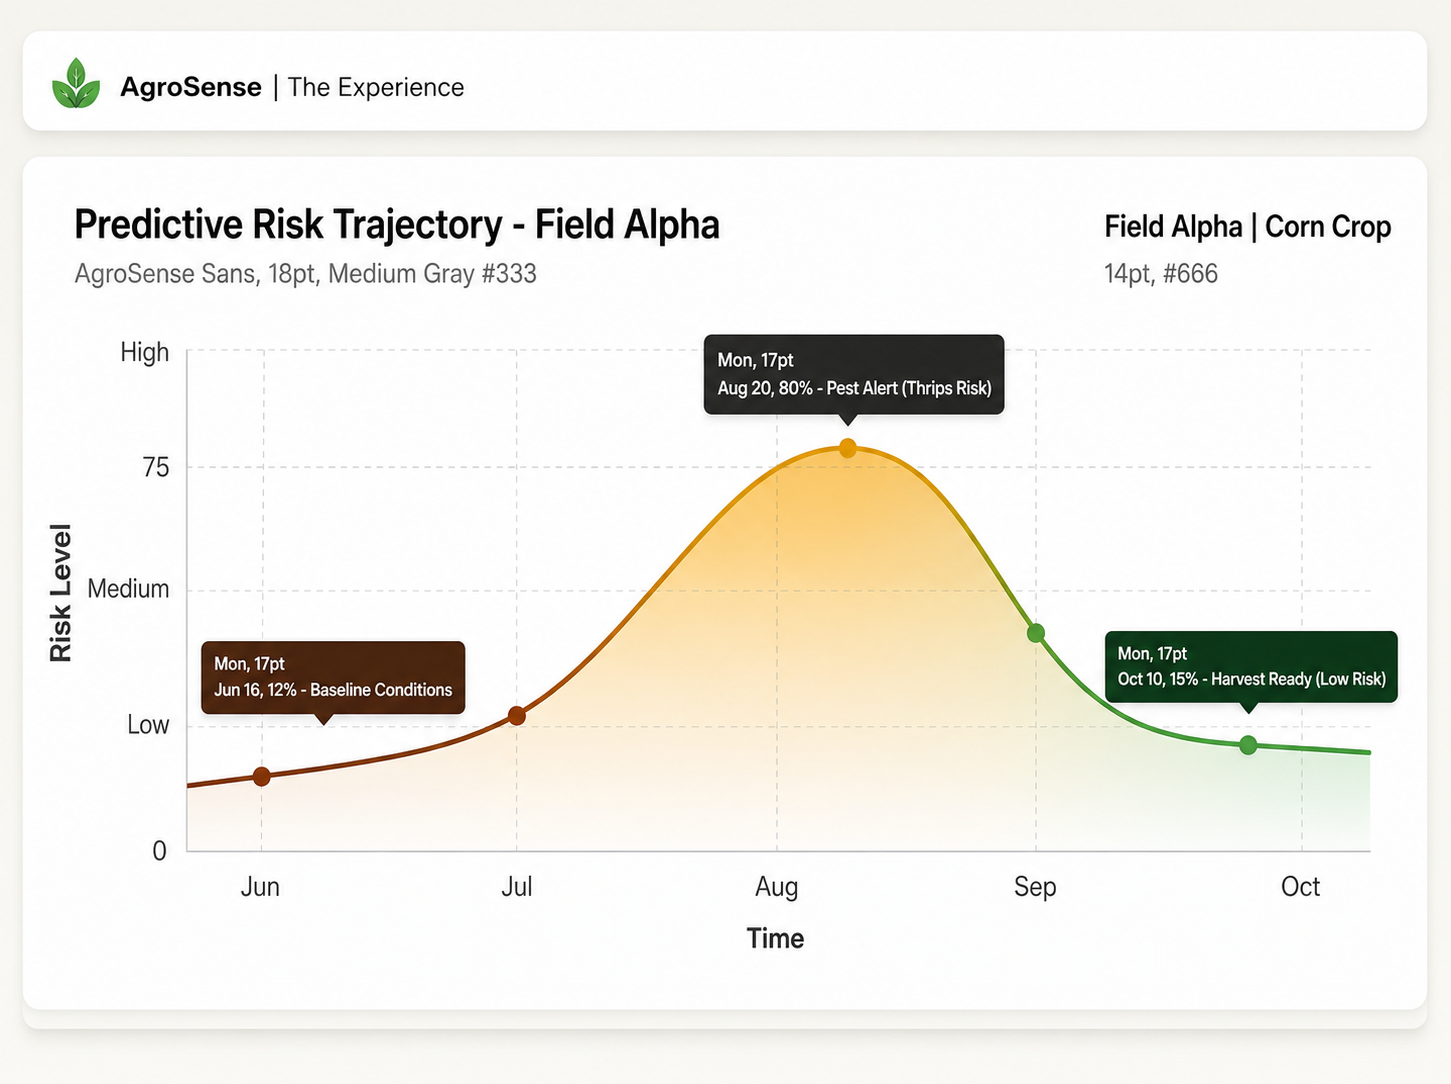
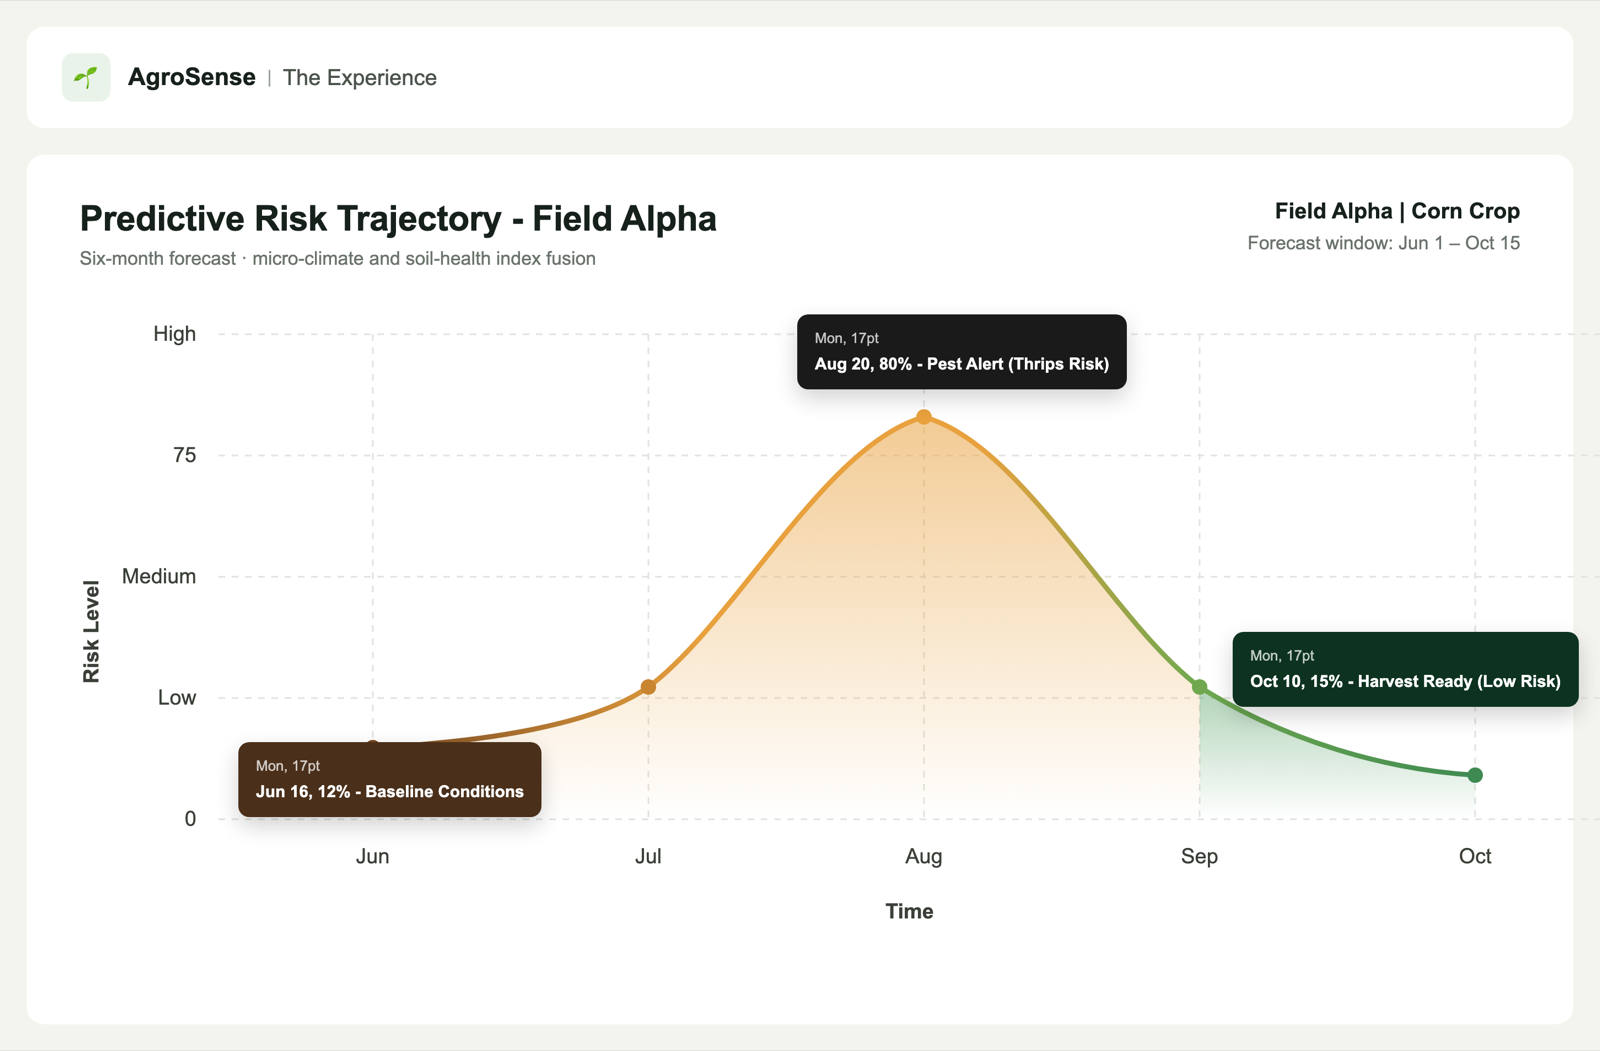
fix: improve mobile responsiveness

diff --git a/src/components/layout/Navbar.jsx b/src/components/layout/Navbar.jsx
@@ -1,5 +1,5 @@
-import { useState } from "react";
-import { Link } from "react-router-dom";
+import { useEffect, useState } from "react";
+import { Link, useLocation } from "react-router-dom";
 import Icon from "../shared/Icon";
 import useActiveSection from "../../hooks/useActiveSection";
 
@@ -16,7 +16,14 @@ const SECTION_IDS = LINKS.map((link) => link.id);
 export default function Navbar() {
   const activeId = useActiveSection(SECTION_IDS);
   const [hoveredId, setHoveredId] = useState(null);
+  const [mobileOpen, setMobileOpen] = useState(false);
   const highlightedId = hoveredId ?? activeId;
+  const { pathname, hash } = useLocation();
+
+  // Close the mobile menu whenever navigation happens.
+  useEffect(() => {
+    setMobileOpen(false);
+  }, [pathname, hash]);
 
   return (
     <nav className="fixed top-0 w-full z-50 bg-surface/80 dark:bg-primary/80 backdrop-blur-xl shadow-sm dark:shadow-none transition-all duration-300 ease-in-out border-b-0">
@@ -27,7 +34,7 @@ export default function Navbar() {
         >
           AgroSense
         </Link>
-        <div className="hidden md:flex items-center space-x-8">
+        <div className="hidden lg:flex items-center space-x-6 xl:space-x-8">
           {LINKS.map((link) => (
             <Link
               key={link.href}
@@ -36,25 +43,60 @@ export default function Navbar() {
               onMouseLeave={() => setHoveredId(null)}
               className={
                 highlightedId === link.id
-                  ? "text-secondary font-bold border-b-2 border-secondary pb-1 text-body-md font-body-md"
-                  : "text-on-surface-variant border-b-2 border-transparent pb-1 transition-colors text-body-md font-body-md"
+                  ? "text-secondary font-bold border-b-2 border-secondary pb-1 text-body-md font-body-md whitespace-nowrap"
+                  : "text-on-surface-variant border-b-2 border-transparent pb-1 transition-colors text-body-md font-body-md whitespace-nowrap"
               }
             >
               {link.label}
             </Link>
           ))}
         </div>
-        <div className="hidden md:block">
+        <div className="hidden lg:block">
           <Link
             to="/discuss"
-            className="bg-primary text-white px-6 py-2 rounded-lg font-body-md hover:bg-on-primary-fixed-variant transition-colors hover:opacity-80 shadow-sm"
+            className="bg-primary text-white px-6 py-2 rounded-lg font-body-md hover:bg-on-primary-fixed-variant transition-colors hover:opacity-80 shadow-sm whitespace-nowrap"
           >
             Let's Discuss
           </Link>
         </div>
-        <button className="md:hidden text-primary">
-          <Icon name="menu" fill />
+        <button
+          type="button"
+          className="lg:hidden text-primary dark:text-primary-fixed"
+          aria-label={mobileOpen ? "Close menu" : "Open menu"}
+          aria-expanded={mobileOpen}
+          onClick={() => setMobileOpen((open) => !open)}
+        >
+          <Icon name={mobileOpen ? "close" : "menu"} fill />
         </button>
+      </div>
+
+      {/* Mobile / tablet menu */}
+      <div
+        className={`lg:hidden overflow-hidden transition-[max-height,opacity] duration-300 ease-in-out bg-surface dark:bg-primary border-t border-outline-variant/20 ${
+          mobileOpen ? "max-h-[28rem] opacity-100" : "max-h-0 opacity-0"
+        }`}
+      >
+        <div className="flex flex-col px-margin-mobile md:px-margin-desktop py-6 gap-1">
+          {LINKS.map((link) => (
+            <Link
+              key={link.href}
+              to={link.href}
+              className={
+                activeId === link.id
+                  ? "text-secondary font-bold py-3 text-body-md font-body-md border-b border-outline-variant/20"
+                  : "text-on-surface-variant py-3 text-body-md font-body-md border-b border-outline-variant/20"
+              }
+            >
+              {link.label}
+            </Link>
+          ))}
+          <Link
+            to="/discuss"
+            className="bg-primary text-white px-6 py-3 rounded-lg font-body-md hover:opacity-80 transition-opacity shadow-sm text-center mt-4"
+          >
+            Let's Discuss
+          </Link>
+        </div>
       </div>
     </nav>
   );

diff --git a/src/components/home/Solution.jsx b/src/components/home/Solution.jsx
@@ -14,11 +14,11 @@ export default function Solution() {
     >
       <div className="grid grid-cols-1 md:grid-cols-12 gap-gutter items-center reveal">
         {/* Narrative Canvas */}
-        <div className="md:col-span-5 md:col-start-1 z-10 space-y-8 relative">
+        <div className="md:col-span-5 md:col-start-1 min-w-0 z-10 space-y-8 relative">
           <span className="inline-block px-3 py-1 bg-fresh-leaf text-white font-label-caps text-label-caps rounded-full uppercase tracking-widest w-fit">
             The Solution
           </span>
-          <h2 className="font-display-lg-mobile text-display-lg-mobile md:font-display-lg md:text-display-lg text-primary tracking-tight">
+          <h2 className="font-display-lg-mobile text-display-lg-mobile xl:font-display-lg xl:text-display-lg text-primary tracking-tight break-words">
             One Connected <br />
             <span className="text-surface-tint">Intelligence Experience.</span>
           </h2>
@@ -32,7 +32,7 @@ export default function Solution() {
         {/* High-Impact Visual Canvas with UI Overlays */}
         <div className="md:col-span-7 md:col-start-6 mt-12 md:mt-0 relative reveal reveal-delay-1">
           <div
-            className="rounded-xl overflow-hidden aspect-[4/3] relative ambient-shadow border border-primary/10"
+            className="rounded-xl overflow-hidden aspect-[4/3] relative ambient-shadow border border-primary/10 bg-cover bg-center bg-no-repeat"
             style={{ backgroundImage: `url('${MAIN_IMAGE}')` }}
           >
             <div className="absolute inset-0 bg-gradient-to-tr from-primary/30 to-transparent" />
@@ -81,7 +81,7 @@ export default function Solution() {
             </p>
           </div>
           <div
-            className="md:w-1/2 relative bg-surface min-h-[250px]"
+            className="md:w-1/2 relative bg-surface bg-contain md:bg-cover bg-center bg-no-repeat min-h-[250px]"
             style={{ backgroundImage: `url('${FARMERS_IMAGE}')` }}
           >
             <div className="absolute bottom-4 right-4 bg-surface-container-lowest/80 backdrop-blur border border-white/20 p-3 rounded-lg shadow-sm">
@@ -132,7 +132,7 @@ export default function Solution() {
         </div>
 
         {/* Bento Item 3: The Platform Engine (Full Width) */}
-        <div className="md:col-span-12 bg-primary rounded-2xl p-8 md:p-12 ambient-shadow flex flex-col md:flex-row items-center justify-between relative overflow-hidden">
+        <div className="md:col-span-12 bg-primary rounded-2xl p-8 md:p-12 ambient-shadow flex flex-col md:flex-row items-stretch md:items-center justify-between relative overflow-hidden">
           <div
             className="absolute inset-0 opacity-10"
             style={{
@@ -151,17 +151,17 @@ export default function Solution() {
             </p>
           </div>
           <div className="relative z-10 md:w-5/12 mt-8 md:mt-0">
-            <div className="relative w-full aspect-[4/3]">
+            <div className="relative w-full">
               <div className="absolute inset-4 bg-surface/10 rounded-xl border border-white/20 backdrop-blur-sm transform rotate-3" />
               <div className="absolute inset-2 bg-surface/20 rounded-xl border border-white/30 backdrop-blur-md transform -rotate-2" />
-              <div className="absolute inset-0 bg-surface-container-lowest rounded-xl border border-white/10 shadow-2xl p-6 flex flex-col text-primary">
+              <div className="relative bg-surface-container-lowest rounded-xl border border-white/10 shadow-2xl p-6 flex flex-col text-primary">
                 <div className="flex justify-between items-center mb-4 border-b border-surface-variant pb-2">
                   <span className="font-label-caps text-label-caps tracking-wide">
                     Data Pipeline Status
                   </span>
                   <Icon name="check_circle" className="text-fresh-leaf text-sm" />
                 </div>
-                <div className="space-y-3 flex-grow">
+                <div className="space-y-3">
                   <div className="flex items-center justify-between text-sm">
                     <span className="text-on-surface-variant font-data-viz">
                       Sentinel-2 Ingestion

diff --git a/src/components/home/Impact.jsx b/src/components/home/Impact.jsx
@@ -75,7 +75,7 @@ export default function Impact() {
                 src={AFTER_IMAGE}
               />
               <div className="absolute inset-0 bg-white/10" />
-              <div className="absolute top-4 right-4 bg-primary/90 backdrop-blur text-white px-3 py-1 rounded font-label-caps text-label-caps tracking-widest">
+              <div className="absolute bottom-4 right-4 bg-primary/90 backdrop-blur text-white px-3 py-1 rounded font-label-caps text-label-caps tracking-widest">
                 AGROSENSE INTELLIGENCE
               </div>
               <div className="absolute top-2 left-2 bg-surface rounded-lg shadow-sm px-2.5 py-1.5 w-48">
@@ -140,9 +140,9 @@ export default function Impact() {
 
       {/* Business Value Impact Areas */}
       <div className="bg-sage-bg py-16 px-8 rounded-2xl border border-primary/5 reveal reveal-delay-2 mb-section-gap">
-        <div className="grid md:grid-cols-12 gap-gutter">
-          <div className="md:col-span-4 flex flex-col justify-center">
-            <h3 className="font-headline-lg-mobile text-headline-lg-mobile md:font-headline-lg md:text-headline-lg text-primary mb-6">
+        <div className="grid lg:grid-cols-12 gap-gutter">
+          <div className="lg:col-span-4 min-w-0 flex flex-col justify-center mb-8 lg:mb-0">
+            <h3 className="font-headline-lg-mobile text-headline-lg-mobile xl:font-headline-lg xl:text-headline-lg text-primary mb-6 break-words">
               Quantifiable Business Value
             </h3>
             <p className="font-body-lg text-body-lg text-on-surface-variant mb-8">
@@ -150,7 +150,7 @@ export default function Impact() {
               environmental variables into manageable metrics.
             </p>
           </div>
-          <div className="md:col-span-8 grid sm:grid-cols-2 gap-6">
+          <div className="lg:col-span-8 grid sm:grid-cols-2 gap-6">
             <div className="bg-surface p-8 rounded-xl border border-primary/10 hover:shadow-xl hover:shadow-tertiary-container/10 transition-all duration-300">
               <Icon name="trending_down" className="text-4xl text-primary mb-4" fill />
               <div className="font-display-lg text-display-lg text-primary mb-2">32%</div>

diff --git a/src/components/home/Experience.jsx b/src/components/home/Experience.jsx
@@ -25,8 +25,8 @@ export default function Experience() {
       <div className="grid grid-cols-1 md:grid-cols-12 gap-6 md:gap-8 reveal reveal-delay-1">
         {/* Feature 1: Field Mapping (Large Span) */}
         <div className="md:col-span-12 bg-surface-container-lowest rounded-xl border border-primary/10 overflow-hidden ambient-shadow relative group">
-          <div className="absolute inset-x-0 bottom-0 h-48 md:h-56 bg-gradient-to-t from-primary/90 to-transparent z-10 flex flex-col justify-end p-8 md:p-12">
-            <span className="inline-block px-3 py-1 bg-sage-bg text-primary font-label-caps text-label-caps rounded-full w-max mb-4">
+          <div className="absolute inset-x-0 bottom-0 md:h-56 bg-gradient-to-t from-primary via-primary/95 md:via-primary/90 to-transparent z-10 flex flex-col justify-end p-6 md:p-12">
+            <span className="inline-block px-3 py-1 bg-sage-bg text-primary font-label-caps text-label-caps rounded-full w-max mb-3 md:mb-4">
               Precision Cartography
             </span>
             <h3 className="font-headline-lg-mobile text-headline-lg-mobile md:font-headline-lg md:text-headline-lg text-white mb-2">
@@ -39,7 +39,7 @@ export default function Experience() {
           </div>
           <img
             alt="Field Mapping Interface"
-            className="w-full h-[500px] object-cover transition-transform duration-700 group-hover:scale-105"
+            className="w-full h-96 sm:h-[420px] md:h-96 lg:h-[500px] object-contain bg-primary transition-transform duration-700 group-hover:scale-105"
             src={FIELD_MAPPING_IMAGE}
           />
         </div>
@@ -83,10 +83,10 @@ export default function Experience() {
               </li>
             </ul>
           </div>
-          <div className="bg-primary/5 h-64 md:h-auto relative">
+          <div className="bg-primary/5 aspect-[3/2] md:aspect-auto md:h-full relative">
             <img
               alt="Predictive Risk UI"
-              className="w-full h-full object-cover"
+              className="w-full h-full object-contain"
               src={PREDICTIVE_RISK_IMAGE}
             />
           </div>

diff --git a/src/hooks/useActiveSection.js b/src/hooks/useActiveSection.js
@@ -23,13 +23,19 @@ export default function useActiveSection(ids) {
       return;
     }
 
+    const intersecting = new Map();
+
     const observer = new IntersectionObserver(
       (entries) => {
         entries.forEach((entry) => {
-          if (entry.isIntersecting) {
-            setActiveId(entry.target.id);
-          }
+          intersecting.set(entry.target.id, entry.isIntersecting);
         });
+        // Multiple sections can report their intersection state in the same
+        // callback batch; picking the first (in document/nav order) that's
+        // currently intersecting avoids "last entry wins" races that could
+        // otherwise leave a lower section highlighted while still at the top.
+        const current = ids.find((id) => intersecting.get(id));
+        if (current) setActiveId(current);
       },
       // Treat a section as "current" once it crosses a line just below
       // the fixed nav, and stop counting it once it's mostly scrolled past.

diff --git a/src/components/home/Challenge.jsx b/src/components/home/Challenge.jsx
@@ -26,7 +26,7 @@ export default function Challenge() {
       </div>
 
       {/* Editorial Image Breakout */}
-      <div className="mt-16 relative w-full aspect-video md:aspect-[21/9] rounded-xl overflow-hidden soft-shadow reveal reveal-delay-1">
+      <div className="mt-16 relative w-full aspect-video min-h-[380px] sm:min-h-[320px] md:min-h-0 md:aspect-[21/9] rounded-xl overflow-hidden soft-shadow reveal reveal-delay-1">
         <div
           className="bg-cover bg-center w-full h-full absolute inset-0"
           style={{ backgroundImage: `url('${EDITORIAL_IMAGE}')` }}

diff --git a/src/pages/Discuss.jsx b/src/pages/Discuss.jsx
@@ -25,6 +25,14 @@ export default function Discuss() {
     setStatus("submitting");
     setErrorMessage("");
 
+    if (!supabase) {
+      setStatus("error");
+      setErrorMessage(
+        "The form isn't connected yet — Supabase configuration is missing."
+      );
+      return;
+    }
+
     const { error } = await supabase.from("discuss_submissions").insert({
       name: form.name,
       email: form.email,

diff --git a/src/lib/supabase.js b/src/lib/supabase.js
@@ -11,4 +11,5 @@ if (!supabaseUrl || !supabaseAnonKey) {
   );
 }
 
-export const supabase = createClient(supabaseUrl ?? "", supabaseAnonKey ?? "");
+export const supabase =
+  supabaseUrl && supabaseAnonKey ? createClient(supabaseUrl, supabaseAnonKey) : null;

diff --git a/vite.config.js b/vite.config.js
@@ -6,6 +6,7 @@ export default defineConfig({
   plugins: [react()],
   server: {
     port: 5175,
+    open: true,
     strictPort: true,
     allowedHosts: true,
   },
